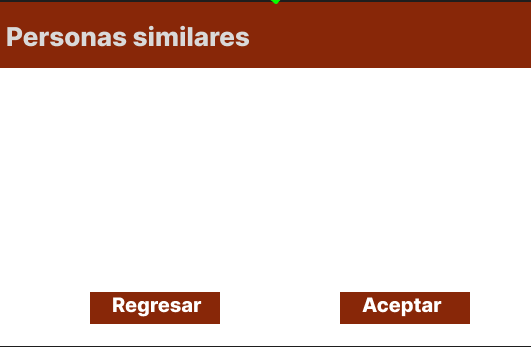
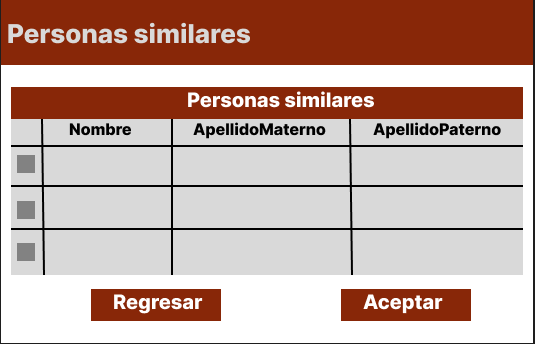
interfacesHistorial

diff --git a/Proyecto2/AgenciaPresentacion/src/main/java/GUI/Historial/TramiteHistorial.java b/Proyecto2/AgenciaPresentacion/src/main/java/GUI/Historial/TramiteHistorial.java
@@ -1,0 +1,106 @@
+/*
+ * Click nbfs://nbhost/SystemFileSystem/Templates/Licenses/license-default.txt to change this license
+ * Click nbfs://nbhost/SystemFileSystem/Templates/GUIForms/JFrame.java to edit this template
+ */
+package GUI.Historial;
+
+/**
+ *
+ * @author Ximena
+ */
+public class TramiteHistorial extends javax.swing.JFrame {
+
+    /**
+     * Creates new form TramiteHistorial
+     */
+    public TramiteHistorial() {
+        initComponents();
+    }
+
+    /**
+     * This method is called from within the constructor to initialize the form.
+     * WARNING: Do NOT modify this code. The content of this method is always
+     * regenerated by the Form Editor.
+     */
+    @SuppressWarnings("unchecked")
+    // <editor-fold defaultstate="collapsed" desc="Generated Code">//GEN-BEGIN:initComponents
+    private void initComponents() {
+
+        jTextField1 = new javax.swing.JTextField();
+        txtAnioNacimiento = new javax.swing.JTextField();
+        txtNombre = new javax.swing.JTextField();
+        txtCurp = new javax.swing.JTextField();
+        jLabel1 = new javax.swing.JLabel();
+        botonRegresar = new javax.swing.JButton();
+        botonAceptar = new javax.swing.JButton();
+
+        setDefaultCloseOperation(javax.swing.WindowConstants.EXIT_ON_CLOSE);
+        getContentPane().setLayout(new org.netbeans.lib.awtextra.AbsoluteLayout());
+
+        jTextField1.setBackground(new java.awt.Color(217, 217, 217));
+        getContentPane().add(jTextField1, new org.netbeans.lib.awtextra.AbsoluteConstraints(190, 310, 160, 30));
+
+        txtAnioNacimiento.setBackground(new java.awt.Color(217, 217, 217));
+        getContentPane().add(txtAnioNacimiento, new org.netbeans.lib.awtextra.AbsoluteConstraints(190, 240, 160, 30));
+
+        txtNombre.setBackground(new java.awt.Color(217, 217, 217));
+        getContentPane().add(txtNombre, new org.netbeans.lib.awtextra.AbsoluteConstraints(190, 180, 160, 30));
+
+        txtCurp.setBackground(new java.awt.Color(217, 217, 217));
+        getContentPane().add(txtCurp, new org.netbeans.lib.awtextra.AbsoluteConstraints(190, 130, 160, 30));
+
+        jLabel1.setIcon(new javax.swing.ImageIcon("C:\\Users\\Ximena\\Documents\\GitHub\\BD-Proyecto-2\\Proyecto2\\AgenciaPresentacion\\src\\main\\resources\\Imagenes\\TramiteHistorialCap.PNG")); // NOI18N
+        getContentPane().add(jLabel1, new org.netbeans.lib.awtextra.AbsoluteConstraints(0, 0, -1, -1));
+        getContentPane().add(botonRegresar, new org.netbeans.lib.awtextra.AbsoluteConstraints(30, 380, 130, 40));
+
+        botonAceptar.setText("jButton1");
+        getContentPane().add(botonAceptar, new org.netbeans.lib.awtextra.AbsoluteConstraints(220, 380, 130, 30));
+
+        pack();
+    }// </editor-fold>//GEN-END:initComponents
+
+    /**
+     * @param args the command line arguments
+     */
+//    public static void main(String args[]) {
+//        /* Set the Nimbus look and feel */
+//        //<editor-fold defaultstate="collapsed" desc=" Look and feel setting code (optional) ">
+//        /* If Nimbus (introduced in Java SE 6) is not available, stay with the default look and feel.
+//         * For details see http://download.oracle.com/javase/tutorial/uiswing/lookandfeel/plaf.html 
+//         */
+//        try {
+//            for (javax.swing.UIManager.LookAndFeelInfo info : javax.swing.UIManager.getInstalledLookAndFeels()) {
+//                if ("Nimbus".equals(info.getName())) {
+//                    javax.swing.UIManager.setLookAndFeel(info.getClassName());
+//                    break;
+//                }
+//            }
+//        } catch (ClassNotFoundException ex) {
+//            java.util.logging.Logger.getLogger(TramiteHistorial.class.getName()).log(java.util.logging.Level.SEVERE, null, ex);
+//        } catch (InstantiationException ex) {
+//            java.util.logging.Logger.getLogger(TramiteHistorial.class.getName()).log(java.util.logging.Level.SEVERE, null, ex);
+//        } catch (IllegalAccessException ex) {
+//            java.util.logging.Logger.getLogger(TramiteHistorial.class.getName()).log(java.util.logging.Level.SEVERE, null, ex);
+//        } catch (javax.swing.UnsupportedLookAndFeelException ex) {
+//            java.util.logging.Logger.getLogger(TramiteHistorial.class.getName()).log(java.util.logging.Level.SEVERE, null, ex);
+//        }
+//        //</editor-fold>
+//
+//        /* Create and display the form */
+//        java.awt.EventQueue.invokeLater(new Runnable() {
+//            public void run() {
+//                new TramiteHistorial().setVisible(true);
+//            }
+//        });
+//    }
+
+    // Variables declaration - do not modify//GEN-BEGIN:variables
+    private javax.swing.JButton botonAceptar;
+    private javax.swing.JButton botonRegresar;
+    private javax.swing.JLabel jLabel1;
+    private javax.swing.JTextField jTextField1;
+    private javax.swing.JTextField txtAnioNacimiento;
+    private javax.swing.JTextField txtCurp;
+    private javax.swing.JTextField txtNombre;
+    // End of variables declaration//GEN-END:variables
+}

diff --git a/Proyecto2/AgenciaPresentacion/src/main/java/GUI/Reportes/ReporteSolicitado.java b/Proyecto2/AgenciaPresentacion/src/main/java/GUI/Reportes/ReporteSolicitado.java
@@ -64,37 +64,37 @@ public class ReporteSolicitado extends javax.swing.JFrame {
     /**
      * @param args the command line arguments
      */
-    public static void main(String args[]) {
-        /* Set the Nimbus look and feel */
-        //<editor-fold defaultstate="collapsed" desc=" Look and feel setting code (optional) ">
-        /* If Nimbus (introduced in Java SE 6) is not available, stay with the default look and feel.
-         * For details see http://download.oracle.com/javase/tutorial/uiswing/lookandfeel/plaf.html 
-         */
-        try {
-            for (javax.swing.UIManager.LookAndFeelInfo info : javax.swing.UIManager.getInstalledLookAndFeels()) {
-                if ("Nimbus".equals(info.getName())) {
-                    javax.swing.UIManager.setLookAndFeel(info.getClassName());
-                    break;
-                }
-            }
-        } catch (ClassNotFoundException ex) {
-            java.util.logging.Logger.getLogger(ReporteSolicitado.class.getName()).log(java.util.logging.Level.SEVERE, null, ex);
-        } catch (InstantiationException ex) {
-            java.util.logging.Logger.getLogger(ReporteSolicitado.class.getName()).log(java.util.logging.Level.SEVERE, null, ex);
-        } catch (IllegalAccessException ex) {
-            java.util.logging.Logger.getLogger(ReporteSolicitado.class.getName()).log(java.util.logging.Level.SEVERE, null, ex);
-        } catch (javax.swing.UnsupportedLookAndFeelException ex) {
-            java.util.logging.Logger.getLogger(ReporteSolicitado.class.getName()).log(java.util.logging.Level.SEVERE, null, ex);
-        }
-        //</editor-fold>
-
-        /* Create and display the form */
-        java.awt.EventQueue.invokeLater(new Runnable() {
-            public void run() {
-                new ReporteSolicitado().setVisible(true);
-            }
-        });
-    }
+//    public static void main(String args[]) {
+//        /* Set the Nimbus look and feel */
+//        //<editor-fold defaultstate="collapsed" desc=" Look and feel setting code (optional) ">
+//        /* If Nimbus (introduced in Java SE 6) is not available, stay with the default look and feel.
+//         * For details see http://download.oracle.com/javase/tutorial/uiswing/lookandfeel/plaf.html 
+//         */
+//        try {
+//            for (javax.swing.UIManager.LookAndFeelInfo info : javax.swing.UIManager.getInstalledLookAndFeels()) {
+//                if ("Nimbus".equals(info.getName())) {
+//                    javax.swing.UIManager.setLookAndFeel(info.getClassName());
+//                    break;
+//                }
+//            }
+//        } catch (ClassNotFoundException ex) {
+//            java.util.logging.Logger.getLogger(ReporteSolicitado.class.getName()).log(java.util.logging.Level.SEVERE, null, ex);
+//        } catch (InstantiationException ex) {
+//            java.util.logging.Logger.getLogger(ReporteSolicitado.class.getName()).log(java.util.logging.Level.SEVERE, null, ex);
+//        } catch (IllegalAccessException ex) {
+//            java.util.logging.Logger.getLogger(ReporteSolicitado.class.getName()).log(java.util.logging.Level.SEVERE, null, ex);
+//        } catch (javax.swing.UnsupportedLookAndFeelException ex) {
+//            java.util.logging.Logger.getLogger(ReporteSolicitado.class.getName()).log(java.util.logging.Level.SEVERE, null, ex);
+//        }
+//        //</editor-fold>
+//
+//        /* Create and display the form */
+//        java.awt.EventQueue.invokeLater(new Runnable() {
+//            public void run() {
+//                new ReporteSolicitado().setVisible(true);
+//            }
+//        });
+//    }
 
     // Variables declaration - do not modify//GEN-BEGIN:variables
     private javax.swing.JButton botonAceptar;

diff --git a/Proyecto2/AgenciaPresentacion/src/main/java/GUI/Historial/PersonasSimilares.java b/Proyecto2/AgenciaPresentacion/src/main/java/GUI/Historial/PersonasSimilares.java
@@ -1,0 +1,83 @@
+/*
+ * Click nbfs://nbhost/SystemFileSystem/Templates/Licenses/license-default.txt to change this license
+ * Click nbfs://nbhost/SystemFileSystem/Templates/GUIForms/JFrame.java to edit this template
+ */
+package GUI.Historial;
+
+/**
+ *
+ * @author Ximena
+ */
+public class PersonasSimilares extends javax.swing.JFrame {
+
+    /**
+     * Creates new form PersonasSimilares
+     */
+    public PersonasSimilares() {
+        initComponents();
+    }
+
+    /**
+     * This method is called from within the constructor to initialize the form.
+     * WARNING: Do NOT modify this code. The content of this method is always
+     * regenerated by the Form Editor.
+     */
+    @SuppressWarnings("unchecked")
+    // <editor-fold defaultstate="collapsed" desc="Generated Code">//GEN-BEGIN:initComponents
+    private void initComponents() {
+
+        jLabel2 = new javax.swing.JLabel();
+        botonAceptar = new javax.swing.JButton();
+
+        setDefaultCloseOperation(javax.swing.WindowConstants.EXIT_ON_CLOSE);
+        getContentPane().setLayout(new org.netbeans.lib.awtextra.AbsoluteLayout());
+
+        jLabel2.setIcon(new javax.swing.ImageIcon("C:\\Users\\Ximena\\Documents\\GitHub\\BD-Proyecto-2\\Proyecto2\\AgenciaPresentacion\\src\\main\\resources\\Imagenes\\PersonasSimilaresCap.PNG")); // NOI18N
+        getContentPane().add(jLabel2, new org.netbeans.lib.awtextra.AbsoluteConstraints(0, 0, -1, -1));
+
+        botonAceptar.setText("jButton1");
+        getContentPane().add(botonAceptar, new org.netbeans.lib.awtextra.AbsoluteConstraints(340, 290, 130, 30));
+
+        pack();
+    }// </editor-fold>//GEN-END:initComponents
+
+    /**
+     * @param args the command line arguments
+     */
+    public static void main(String args[]) {
+        /* Set the Nimbus look and feel */
+        //<editor-fold defaultstate="collapsed" desc=" Look and feel setting code (optional) ">
+        /* If Nimbus (introduced in Java SE 6) is not available, stay with the default look and feel.
+         * For details see http://download.oracle.com/javase/tutorial/uiswing/lookandfeel/plaf.html 
+         */
+        try {
+            for (javax.swing.UIManager.LookAndFeelInfo info : javax.swing.UIManager.getInstalledLookAndFeels()) {
+                if ("Nimbus".equals(info.getName())) {
+                    javax.swing.UIManager.setLookAndFeel(info.getClassName());
+                    break;
+                }
+            }
+        } catch (ClassNotFoundException ex) {
+            java.util.logging.Logger.getLogger(PersonasSimilares.class.getName()).log(java.util.logging.Level.SEVERE, null, ex);
+        } catch (InstantiationException ex) {
+            java.util.logging.Logger.getLogger(PersonasSimilares.class.getName()).log(java.util.logging.Level.SEVERE, null, ex);
+        } catch (IllegalAccessException ex) {
+            java.util.logging.Logger.getLogger(PersonasSimilares.class.getName()).log(java.util.logging.Level.SEVERE, null, ex);
+        } catch (javax.swing.UnsupportedLookAndFeelException ex) {
+            java.util.logging.Logger.getLogger(PersonasSimilares.class.getName()).log(java.util.logging.Level.SEVERE, null, ex);
+        }
+        //</editor-fold>
+
+        /* Create and display the form */
+        java.awt.EventQueue.invokeLater(new Runnable() {
+            public void run() {
+                new PersonasSimilares().setVisible(true);
+            }
+        });
+    }
+
+    // Variables declaration - do not modify//GEN-BEGIN:variables
+    private javax.swing.JButton botonAceptar;
+    private javax.swing.JLabel jLabel2;
+    // End of variables declaration//GEN-END:variables
+}

diff --git a/Proyecto2/AgenciaPresentacion/src/main/java/GUI/Reportes/Reportes.java b/Proyecto2/AgenciaPresentacion/src/main/java/GUI/Reportes/Reportes.java
@@ -4,11 +4,16 @@
  */
 package GUI.Reportes;
 
+import GUI.ControladorVentana;
+import negocio.RegistroLicenciaBO;
+
 /**
  *
  * @author Ximena
  */
 public class Reportes extends javax.swing.JFrame {
+
+    private ControladorVentana ventana;
 
     /**
      * Creates new form Reportes
@@ -54,13 +59,31 @@ public class Reportes extends javax.swing.JFrame {
         getContentPane().add(jLabel2, new org.netbeans.lib.awtextra.AbsoluteConstraints(0, -10, -1, 452));
 
         botonRegresar.setText("Regresar");
+        botonRegresar.addActionListener(new java.awt.event.ActionListener() {
+            public void actionPerformed(java.awt.event.ActionEvent evt) {
+                botonRegresarActionPerformed(evt);
+            }
+        });
         getContentPane().add(botonRegresar, new org.netbeans.lib.awtextra.AbsoluteConstraints(40, 380, 130, 30));
 
         botonAceptar.setText("Aceptar");
+        botonAceptar.addActionListener(new java.awt.event.ActionListener() {
+            public void actionPerformed(java.awt.event.ActionEvent evt) {
+                botonAceptarActionPerformed(evt);
+            }
+        });
         getContentPane().add(botonAceptar, new org.netbeans.lib.awtextra.AbsoluteConstraints(240, 380, 130, 30));
 
         pack();
     }// </editor-fold>//GEN-END:initComponents
+
+    private void botonRegresarActionPerformed(java.awt.event.ActionEvent evt) {//GEN-FIRST:event_botonRegresarActionPerformed
+          ventana.cambiarVistaMenu();
+    }//GEN-LAST:event_botonRegresarActionPerformed
+
+    private void botonAceptarActionPerformed(java.awt.event.ActionEvent evt) {//GEN-FIRST:event_botonAceptarActionPerformed
+       
+    }//GEN-LAST:event_botonAceptarActionPerformed
 
     /**
      * @param args the command line arguments

diff --git a/Proyecto2/AgenciaPresentacion/src/main/java/GUI/ControladorVentana.java b/Proyecto2/AgenciaPresentacion/src/main/java/GUI/ControladorVentana.java
@@ -12,6 +12,8 @@ import GUI.Placas.TramiteAutoNuevo;
 import GUI.Placas.TramiteAutoUsado;
 import GUI.Placas.TramiteGenerarPlacas;
 import GUI.Placas.TramitePlacas;
+import GUI.Reportes.ReporteGenerado;
+import GUI.Reportes.ReporteSolicitado;
 import java.awt.BorderLayout;
 import java.awt.Dimension;
 import javax.swing.JOptionPane;
@@ -158,6 +160,20 @@ public class ControladorVentana extends javax.swing.JFrame {
         TramiteGenerarPlacas tramiteGenerarPlacas = new TramiteGenerarPlacas(this,numPlaca,placa,tipo,modo);
         ponerEnJFrame(tramiteGenerarPlacas );
         panelActual = tramiteGenerarPlacas ;
+    }
+    
+    public void cambiarVistaReporteSolicitado(){
+        limpiarFrame();
+        ReporteSolicitado reporteSolicitado = new ReporteSolicitado();
+//        ponerEnJFrame(reporteSolicitado);
+//        panelActual = reporteSolicitado;
+    }
+    
+    public void cambiarVistaReporteGenerado(){
+        limpiarFrame();
+        ReporteGenerado reporteGenerado = new ReporteGenerado();
+//        ponerEnJFrame(reporteGenerado);
+//        panelActual = reporteGenerado;
     }
 
     /**

diff --git a/Proyecto2/AgenciaPresentacion/src/main/java/GUI/Reportes/ReporteGenerado.java b/Proyecto2/AgenciaPresentacion/src/main/java/GUI/Reportes/ReporteGenerado.java
@@ -30,7 +30,8 @@ public class ReporteGenerado extends javax.swing.JFrame {
 
     ReporteGenerado reporte;
    Connection conexionReporte;
-//     conexionReporte = DriverManager.getConnection("jdbc:mysql://localhost:3306/Agencia","root", "233300515");
+
+   
     /**
      * Creates new form Reporte
      */
